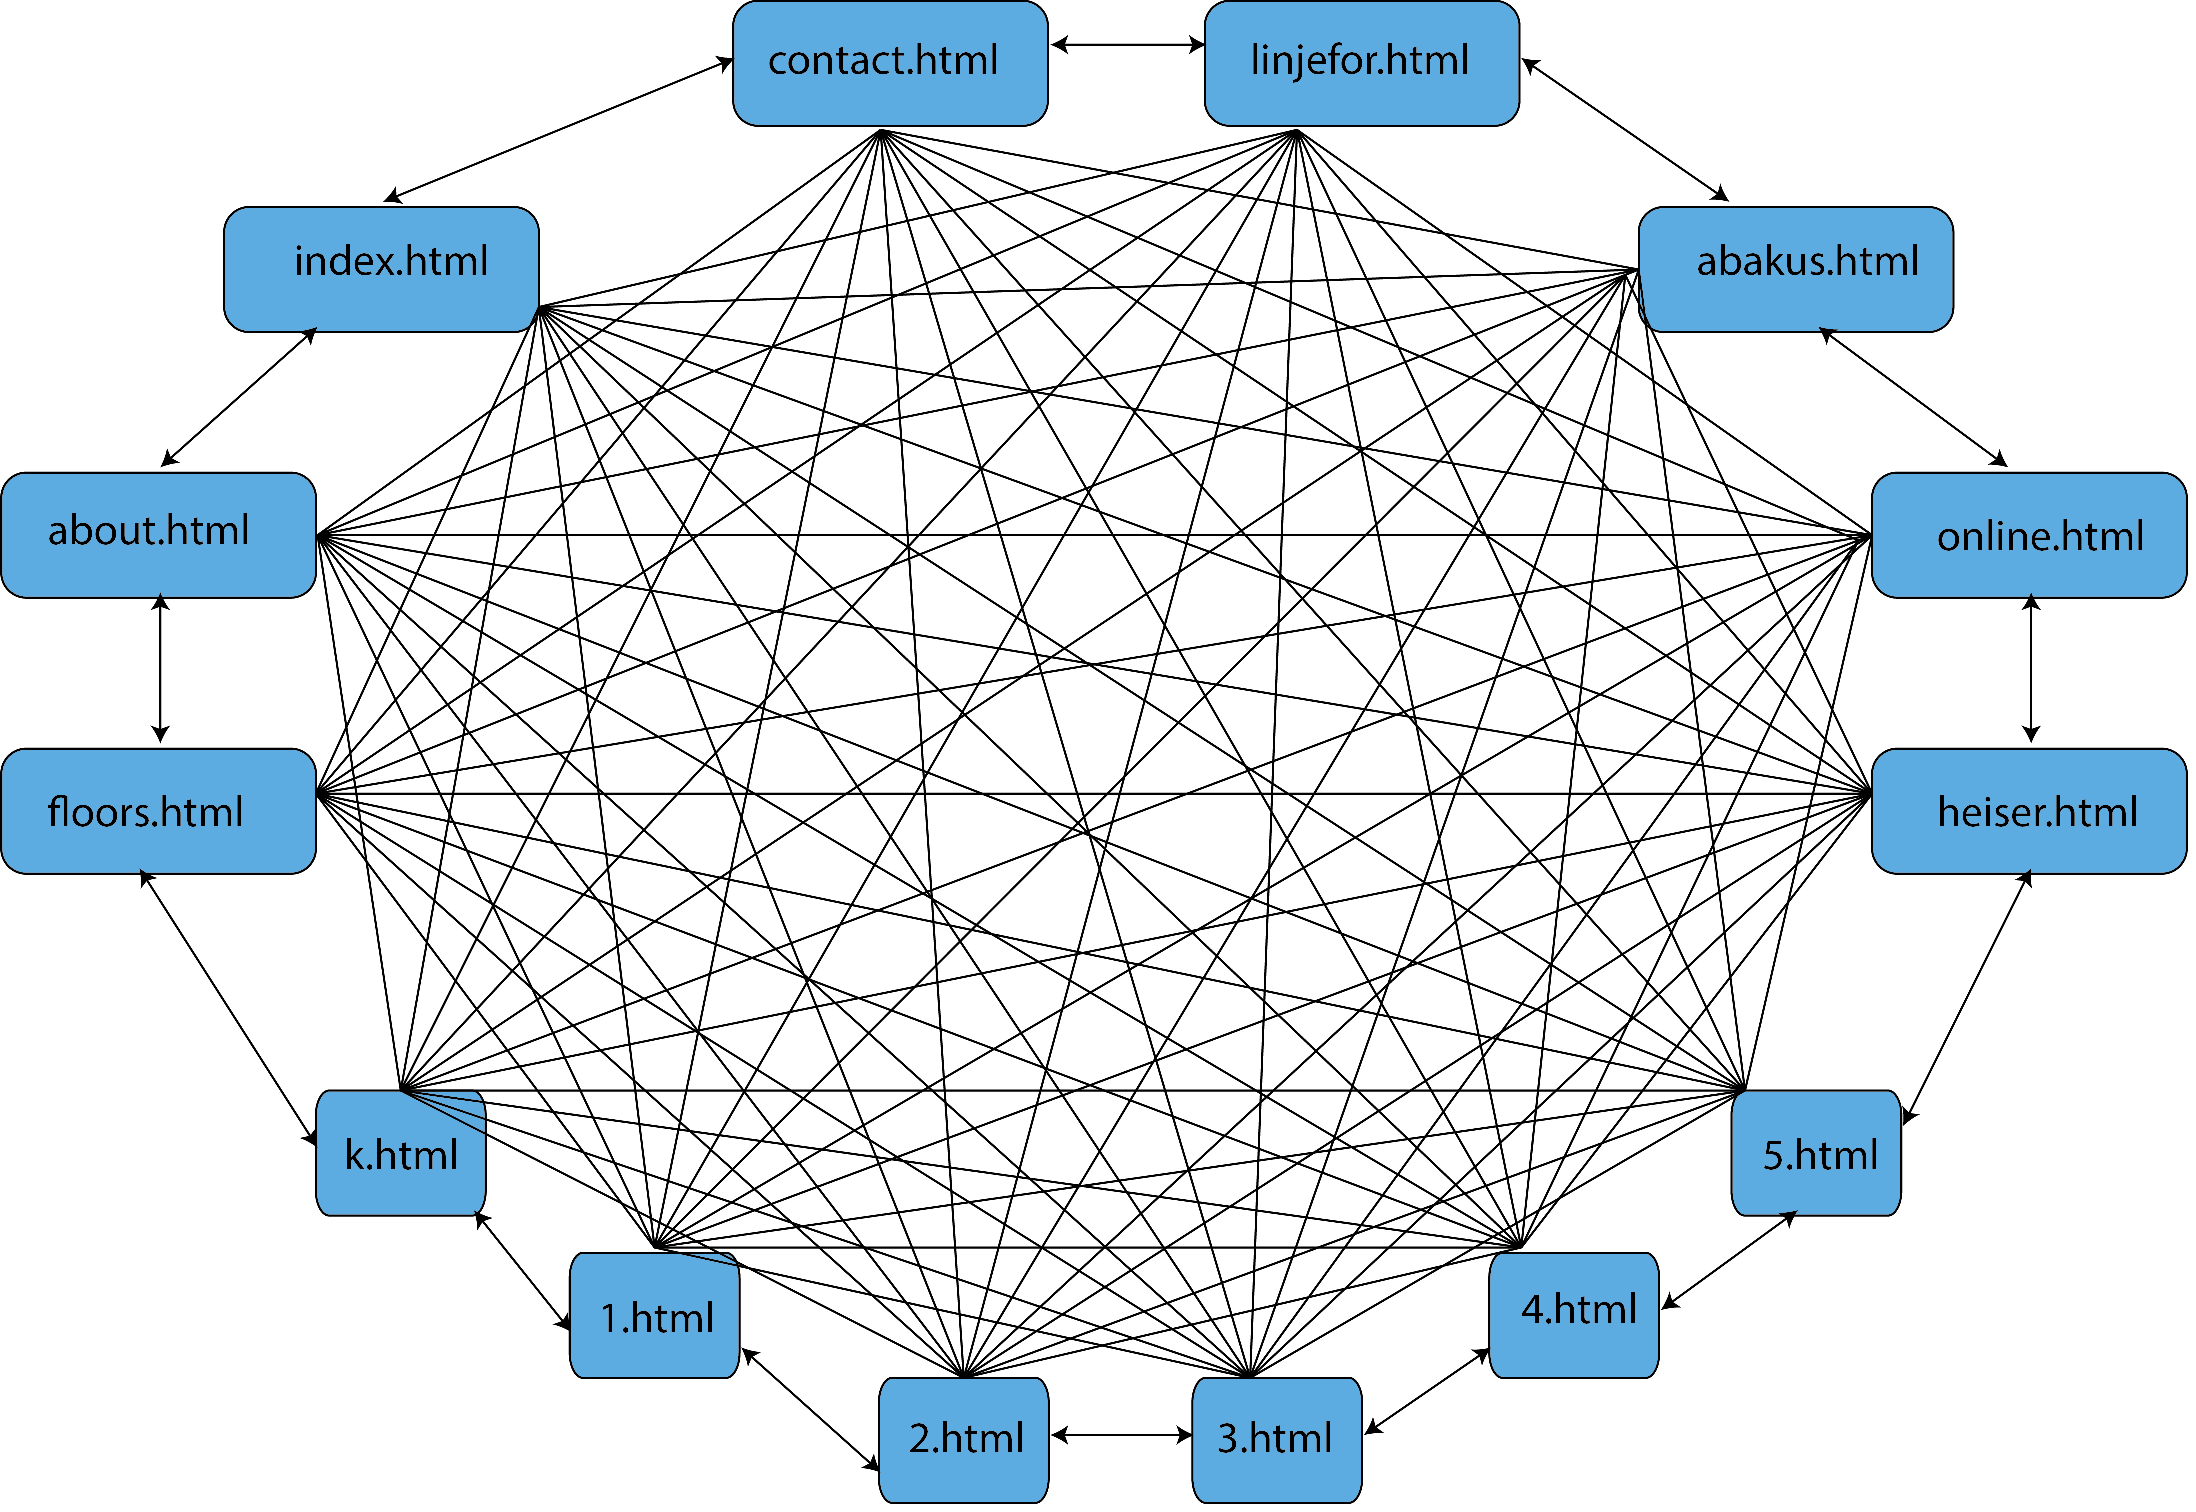
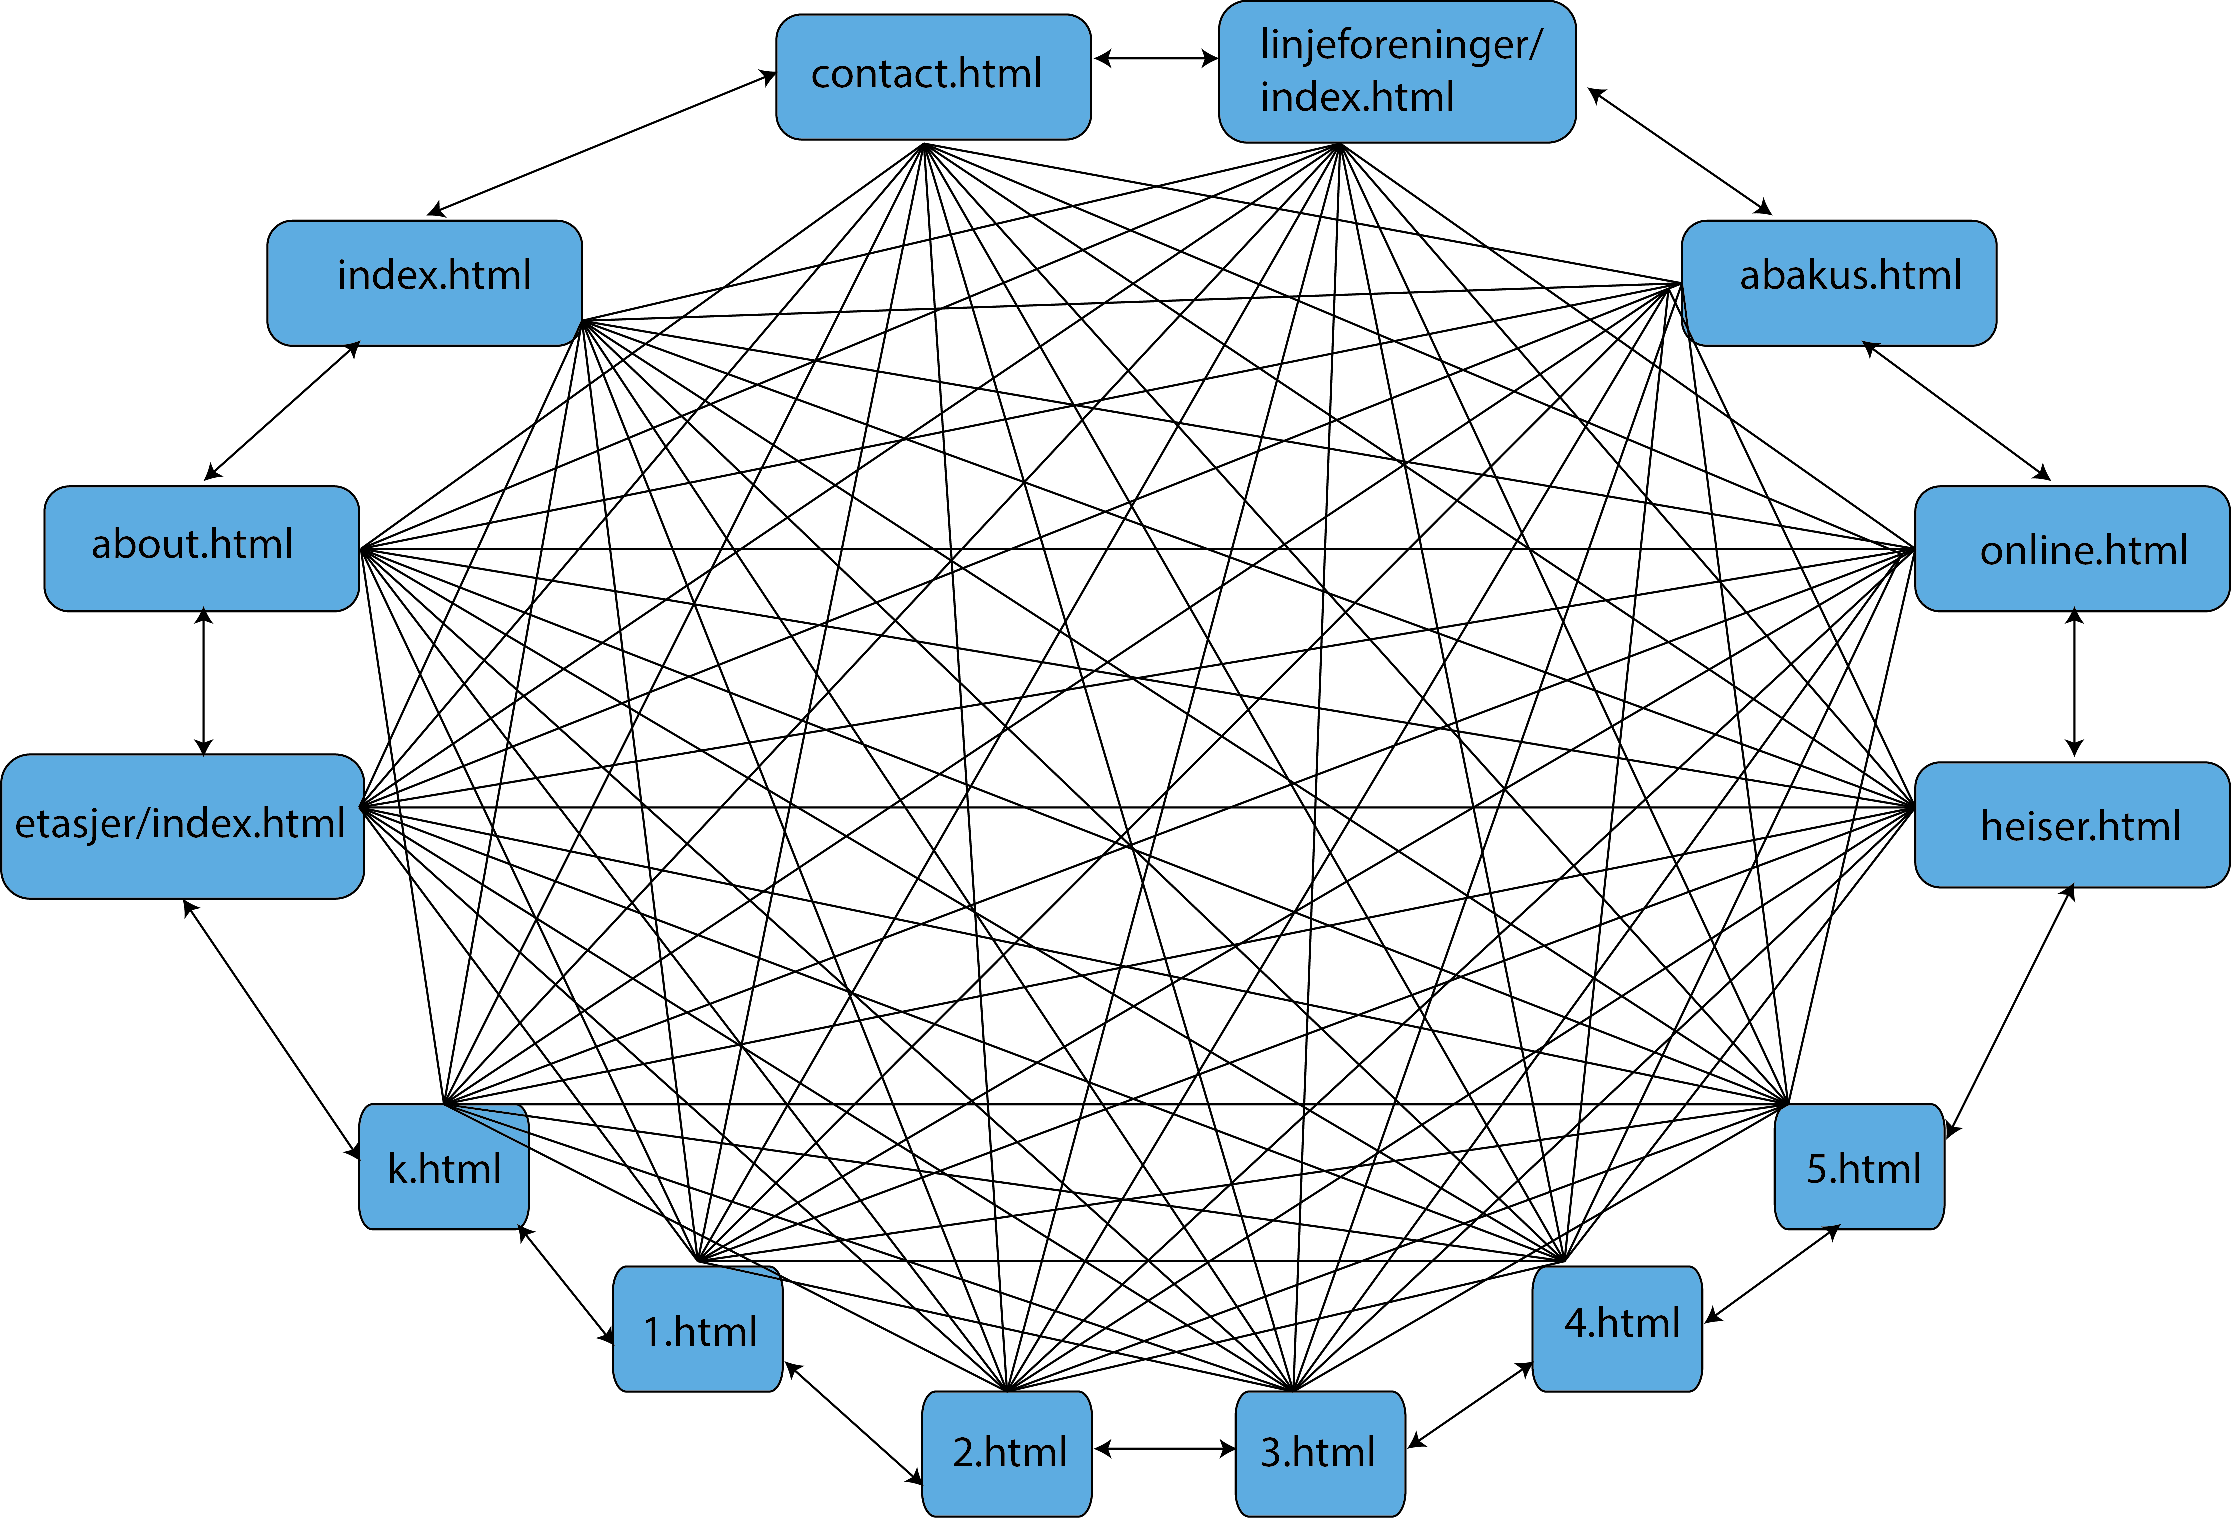
Finished P2: Design. Assignment turned in on It's Learning

Changed region(s): [[0.0, 0.0, 1.0, 0.9947], [0.9909, 0.4974, 1.0, 0.5284]]

diff --git a/Documents/P2_Design.html b/Documents/P2_Design.html
@@ -88,8 +88,9 @@
         </figure><br/>
         <p>
             Figur 1 gjelder ikke for mobil. På mobil så må du inn på menyen og klikke flere klikk
-            for å komme til en underside, se Figur 2. Alle sidene har tilknytning til menu.html. For å komme seg til
-            andre sider, så må man gå via menu.html (grønn node). Hvis man befinner seg på en underside, så vil man
+            for å komme til en underside, se Figur 2. Alle sidene har tilknytning til menu.html som lastes inn med
+            et script for å representere menyen. For å komme seg til
+            andre sider, må man gå via menu.html (grønn node). Hvis man befinner seg på en underside, så vil man
             kunne navigere til andre undersider i samme "kategori" med 1 klikk. Eksempel på dette er at hvis vi vil
             komme til online.html,
             og vi er på index.html, så fungerer navigasjonen slik: index.html → menu.html → linjeforeninger/index.html →
@@ -284,7 +285,6 @@
             <li>index.html</li>
             <li>contact.html</li>
             <li>about.html</li>
-            <li>sitemap.html</li>
             <li>heiser.html</li>
             <li>menu.html</li>
             <li>css/
@@ -341,7 +341,7 @@
             <li>etasjer/
                 <ul>
                     <li>index.html</li>
-                    <li>h.html</li>
+                    <li>k.html</li>
                     <li>1.html</li>
                     <li>2.html</li>
                     <li>3.html</li>
@@ -385,14 +385,14 @@
                     <td>20.10.2015</td>
                 </tr>
                 <tr>
-                    <td>etasjer/index.html<br/>h.html<br/>1.html<br/>2.html</td>
+                    <td>etasjer/index.html<br/>k.html<br/>1.html<br/>2.html</td>
                     <td>Lage enkelte sider under etasjer/</td>
                     <td>Agnete</td>
                     <td>27.10.2015</td>
                 </tr>
                 <tr>
-                    <td>3.html<br/>4.html<br/>5.html<br/>sitemap.html<br/>heiser.html</td>
-                    <td>Lage resterende sider under etasjer/, sidekart </td>
+                    <td>3.html<br/>4.html<br/>5.html<br/>heiser.html</td>
+                    <td>Lage resterende sider under etasjer/ og siden om heiser </td>
                     <td>Vemund</td>
                     <td>27.10.2015</td>
                 </tr>

diff --git a/index.html b/index.html
@@ -45,7 +45,7 @@
         <div class="mdl-layout--large-screen-only mdl-layout__header-row">
         </div>
         <div class="mdl-layout--large-screen-only mdl-layout__header-row">
-          <h3>Name &amp; Title</h3>
+          <h3>IT2805 - Project homepage</h3>
         </div>
         <div class="mdl-layout--large-screen-only mdl-layout__header-row">
         </div>
